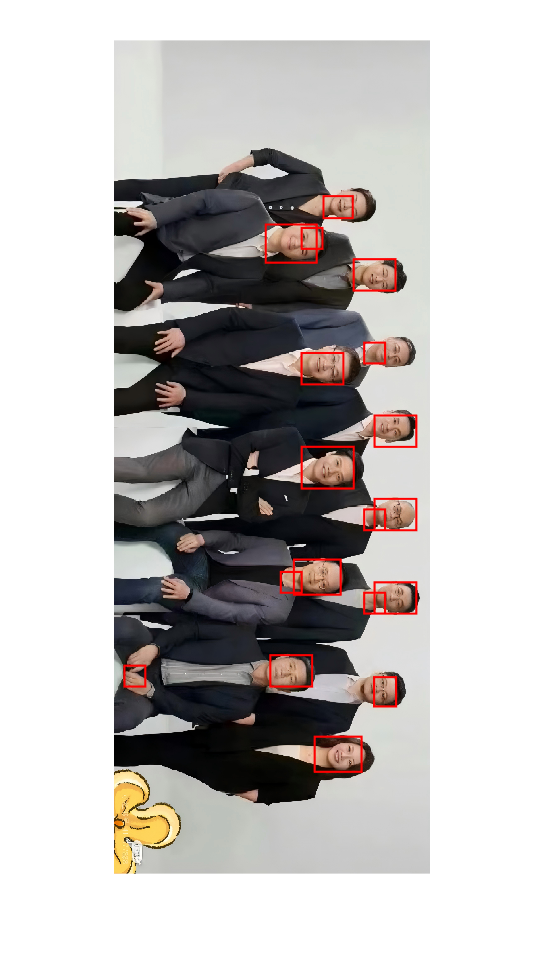
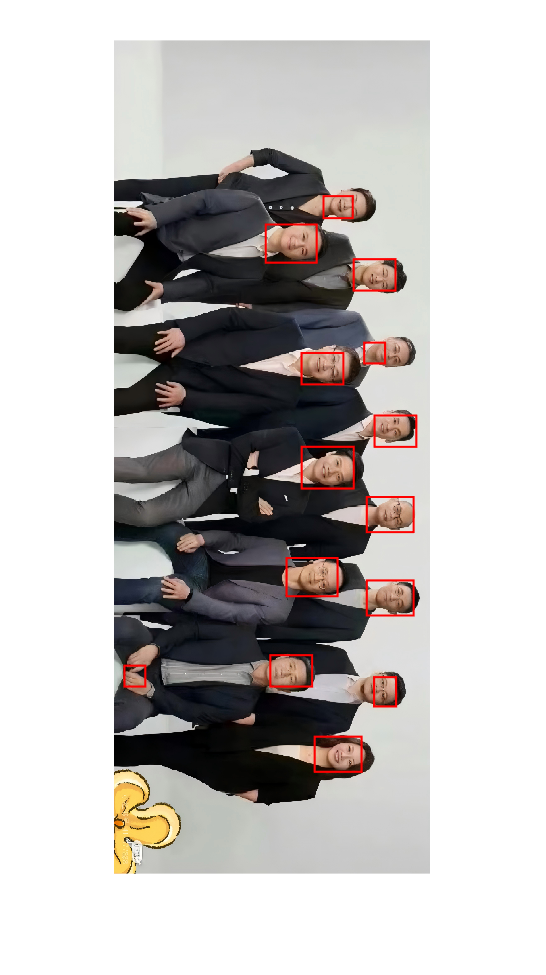
feat: :bug: adjust region_merge

Changed region(s): [[0.4982, 0.5538, 0.7784, 0.6462], [0.6538, 0.4923, 0.7784, 0.5538], [0.5604, 0.2154, 0.5916, 0.2769]]

diff --git a/src/exp4_2_1.m b/src/exp4_2_1.m
@@ -48,10 +48,12 @@ end
 % scan for face regions end
 
 % merge face regions begin
+% 此部分参考ai语言模型，调整后写出算法
 merged_regions = [];
 
-for i = 1:size(face_regions, 1)
-    current_box = face_regions(i, :);
+while ~isempty(face_regions)
+    current_box = face_regions(1, :);
+    face_regions(1, :) = [];
     overlap = false;
 
     for j = 1:size(merged_regions, 1)
@@ -75,6 +77,36 @@ for i = 1:size(face_regions, 1)
 
     if ~overlap
         merged_regions = [merged_regions; current_box];
+    else
+        i = 1;
+
+        while i <= size(merged_regions, 1)
+            j = i + 1;
+
+            while j <= size(merged_regions, 1)
+                box1 = merged_regions(i, :);
+                box2 = merged_regions(j, :);
+
+                if ~((box1(3) < box2(1)) || ...
+                        (box1(4) < box2(2)) || ...
+                        (box1(1) > box2(3)) || ...
+                        (box1(2) > box2(4)))
+
+                    merged_box(1) = min(box1(1), box2(1));
+                    merged_box(2) = min(box1(2), box2(2));
+                    merged_box(3) = max(box1(3), box2(3));
+                    merged_box(4) = max(box1(4), box2(4));
+                    merged_regions(i, :) = merged_box;
+                    merged_regions(j, :) = [];
+                else
+                    j = j + 1;
+                end
+
+            end
+
+            i = i + 1;
+        end
+
     end
 
 end
@@ -82,6 +114,7 @@ end
 % merge face regions end
 
 % adjust regions shape begin
+% 修正方框形状参考一部分版本和ai
 for i = 1:size(merged_regions, 1)
     dx = merged_regions(i, 3) - merged_regions(i, 1);
     dy = merged_regions(i, 4) - merged_regions(i, 2);

diff --git a/src/exp4_2_2.m b/src/exp4_2_2.m
@@ -48,10 +48,12 @@ end
 % scan for face regions end
 
 % merge face regions begin
+% 此部分参考ai语言模型，调整后写出算法
 merged_regions = [];
 
-for i = 1:size(face_regions, 1)
-    current_box = face_regions(i, :);
+while ~isempty(face_regions)
+    current_box = face_regions(1, :);
+    face_regions(1, :) = [];
     overlap = false;
 
     for j = 1:size(merged_regions, 1)
@@ -75,6 +77,36 @@ for i = 1:size(face_regions, 1)
 
     if ~overlap
         merged_regions = [merged_regions; current_box];
+    else
+        i = 1;
+
+        while i <= size(merged_regions, 1)
+            j = i + 1;
+
+            while j <= size(merged_regions, 1)
+                box1 = merged_regions(i, :);
+                box2 = merged_regions(j, :);
+
+                if ~((box1(3) < box2(1)) || ...
+                        (box1(4) < box2(2)) || ...
+                        (box1(1) > box2(3)) || ...
+                        (box1(2) > box2(4)))
+
+                    merged_box(1) = min(box1(1), box2(1));
+                    merged_box(2) = min(box1(2), box2(2));
+                    merged_box(3) = max(box1(3), box2(3));
+                    merged_box(4) = max(box1(4), box2(4));
+                    merged_regions(i, :) = merged_box;
+                    merged_regions(j, :) = [];
+                else
+                    j = j + 1;
+                end
+
+            end
+
+            i = i + 1;
+        end
+
     end
 
 end

diff --git a/src/exp4_2_3.m b/src/exp4_2_3.m
@@ -48,10 +48,12 @@ end
 % scan for face regions end
 
 % merge face regions begin
+% 此部分参考ai语言模型，调整后写出算法
 merged_regions = [];
 
-for i = 1:size(face_regions, 1)
-    current_box = face_regions(i, :);
+while ~isempty(face_regions)
+    current_box = face_regions(1, :);
+    face_regions(1, :) = [];
     overlap = false;
 
     for j = 1:size(merged_regions, 1)
@@ -75,6 +77,36 @@ for i = 1:size(face_regions, 1)
 
     if ~overlap
         merged_regions = [merged_regions; current_box];
+    else
+        i = 1;
+
+        while i <= size(merged_regions, 1)
+            j = i + 1;
+
+            while j <= size(merged_regions, 1)
+                box1 = merged_regions(i, :);
+                box2 = merged_regions(j, :);
+
+                if ~((box1(3) < box2(1)) || ...
+                        (box1(4) < box2(2)) || ...
+                        (box1(1) > box2(3)) || ...
+                        (box1(2) > box2(4)))
+
+                    merged_box(1) = min(box1(1), box2(1));
+                    merged_box(2) = min(box1(2), box2(2));
+                    merged_box(3) = max(box1(3), box2(3));
+                    merged_box(4) = max(box1(4), box2(4));
+                    merged_regions(i, :) = merged_box;
+                    merged_regions(j, :) = [];
+                else
+                    j = j + 1;
+                end
+
+            end
+
+            i = i + 1;
+        end
+
     end
 
 end

diff --git a/src/exp4_3_a.m b/src/exp4_3_a.m
@@ -50,10 +50,12 @@ end
 % scan for face regions end
 
 % merge face regions begin
+% 此部分参考ai语言模型，调整后写出算法
 merged_regions = [];
 
-for i = 1:size(face_regions, 1)
-    current_box = face_regions(i, :);
+while ~isempty(face_regions)
+    current_box = face_regions(1, :);
+    face_regions(1, :) = [];
     overlap = false;
 
     for j = 1:size(merged_regions, 1)
@@ -77,6 +79,36 @@ for i = 1:size(face_regions, 1)
 
     if ~overlap
         merged_regions = [merged_regions; current_box];
+    else
+        i = 1;
+
+        while i <= size(merged_regions, 1)
+            j = i + 1;
+
+            while j <= size(merged_regions, 1)
+                box1 = merged_regions(i, :);
+                box2 = merged_regions(j, :);
+
+                if ~((box1(3) < box2(1)) || ...
+                        (box1(4) < box2(2)) || ...
+                        (box1(1) > box2(3)) || ...
+                        (box1(2) > box2(4)))
+
+                    merged_box(1) = min(box1(1), box2(1));
+                    merged_box(2) = min(box1(2), box2(2));
+                    merged_box(3) = max(box1(3), box2(3));
+                    merged_box(4) = max(box1(4), box2(4));
+                    merged_regions(i, :) = merged_box;
+                    merged_regions(j, :) = [];
+                else
+                    j = j + 1;
+                end
+
+            end
+
+            i = i + 1;
+        end
+
     end
 
 end

diff --git a/src/exp4_3_b.m b/src/exp4_3_b.m
@@ -51,10 +51,12 @@ end
 % scan for face regions end
 
 % merge face regions begin
+% 此部分参考ai语言模型，调整后写出算法
 merged_regions = [];
 
-for i = 1:size(face_regions, 1)
-    current_box = face_regions(i, :);
+while ~isempty(face_regions)
+    current_box = face_regions(1, :);
+    face_regions(1, :) = [];
     overlap = false;
 
     for j = 1:size(merged_regions, 1)
@@ -78,6 +80,36 @@ for i = 1:size(face_regions, 1)
 
     if ~overlap
         merged_regions = [merged_regions; current_box];
+    else
+        i = 1;
+
+        while i <= size(merged_regions, 1)
+            j = i + 1;
+
+            while j <= size(merged_regions, 1)
+                box1 = merged_regions(i, :);
+                box2 = merged_regions(j, :);
+
+                if ~((box1(3) < box2(1)) || ...
+                        (box1(4) < box2(2)) || ...
+                        (box1(1) > box2(3)) || ...
+                        (box1(2) > box2(4)))
+
+                    merged_box(1) = min(box1(1), box2(1));
+                    merged_box(2) = min(box1(2), box2(2));
+                    merged_box(3) = max(box1(3), box2(3));
+                    merged_box(4) = max(box1(4), box2(4));
+                    merged_regions(i, :) = merged_box;
+                    merged_regions(j, :) = [];
+                else
+                    j = j + 1;
+                end
+
+            end
+
+            i = i + 1;
+        end
+
     end
 
 end

diff --git a/src/exp4_3_c.m b/src/exp4_3_c.m
@@ -51,10 +51,12 @@ end
 % scan for face regions end
 
 % merge face regions begin
+% 此部分参考ai语言模型，调整后写出算法
 merged_regions = [];
 
-for i = 1:size(face_regions, 1)
-    current_box = face_regions(i, :);
+while ~isempty(face_regions)
+    current_box = face_regions(1, :);
+    face_regions(1, :) = [];
     overlap = false;
 
     for j = 1:size(merged_regions, 1)
@@ -78,6 +80,36 @@ for i = 1:size(face_regions, 1)
 
     if ~overlap
         merged_regions = [merged_regions; current_box];
+    else
+        i = 1;
+
+        while i <= size(merged_regions, 1)
+            j = i + 1;
+
+            while j <= size(merged_regions, 1)
+                box1 = merged_regions(i, :);
+                box2 = merged_regions(j, :);
+
+                if ~((box1(3) < box2(1)) || ...
+                        (box1(4) < box2(2)) || ...
+                        (box1(1) > box2(3)) || ...
+                        (box1(2) > box2(4)))
+
+                    merged_box(1) = min(box1(1), box2(1));
+                    merged_box(2) = min(box1(2), box2(2));
+                    merged_box(3) = max(box1(3), box2(3));
+                    merged_box(4) = max(box1(4), box2(4));
+                    merged_regions(i, :) = merged_box;
+                    merged_regions(j, :) = [];
+                else
+                    j = j + 1;
+                end
+
+            end
+
+            i = i + 1;
+        end
+
     end
 
 end

diff --git a/src/myFunc/getComplementCode.m b/src/myFunc/getComplementCode.m
@@ -5,7 +5,7 @@ function complement = getComplementCode(true_form)
     if true_form == 0
         complement = [];
     else
-        complement = double(dec2bin(abs(true_form))) - '0';
+        complement = double(dec2bin(abs(true_form))) - '0'; % 参考一部分版本和ai
 
         if true_form < 0
             complement = 1 - complement;

diff --git a/src/exp3_2_1.m b/src/exp3_2_1.m
@@ -30,6 +30,7 @@ end
 % hide information begin
 info = randi([0, 1], size(encode));
 encode_hide = double(bitset(uint8(encode), 1, info));
+% 此处bitset函数参考一部分版本和ai
 % hide information end
 
 DCstream = genDCStream(encode_hide(1, :), DCTAB);
